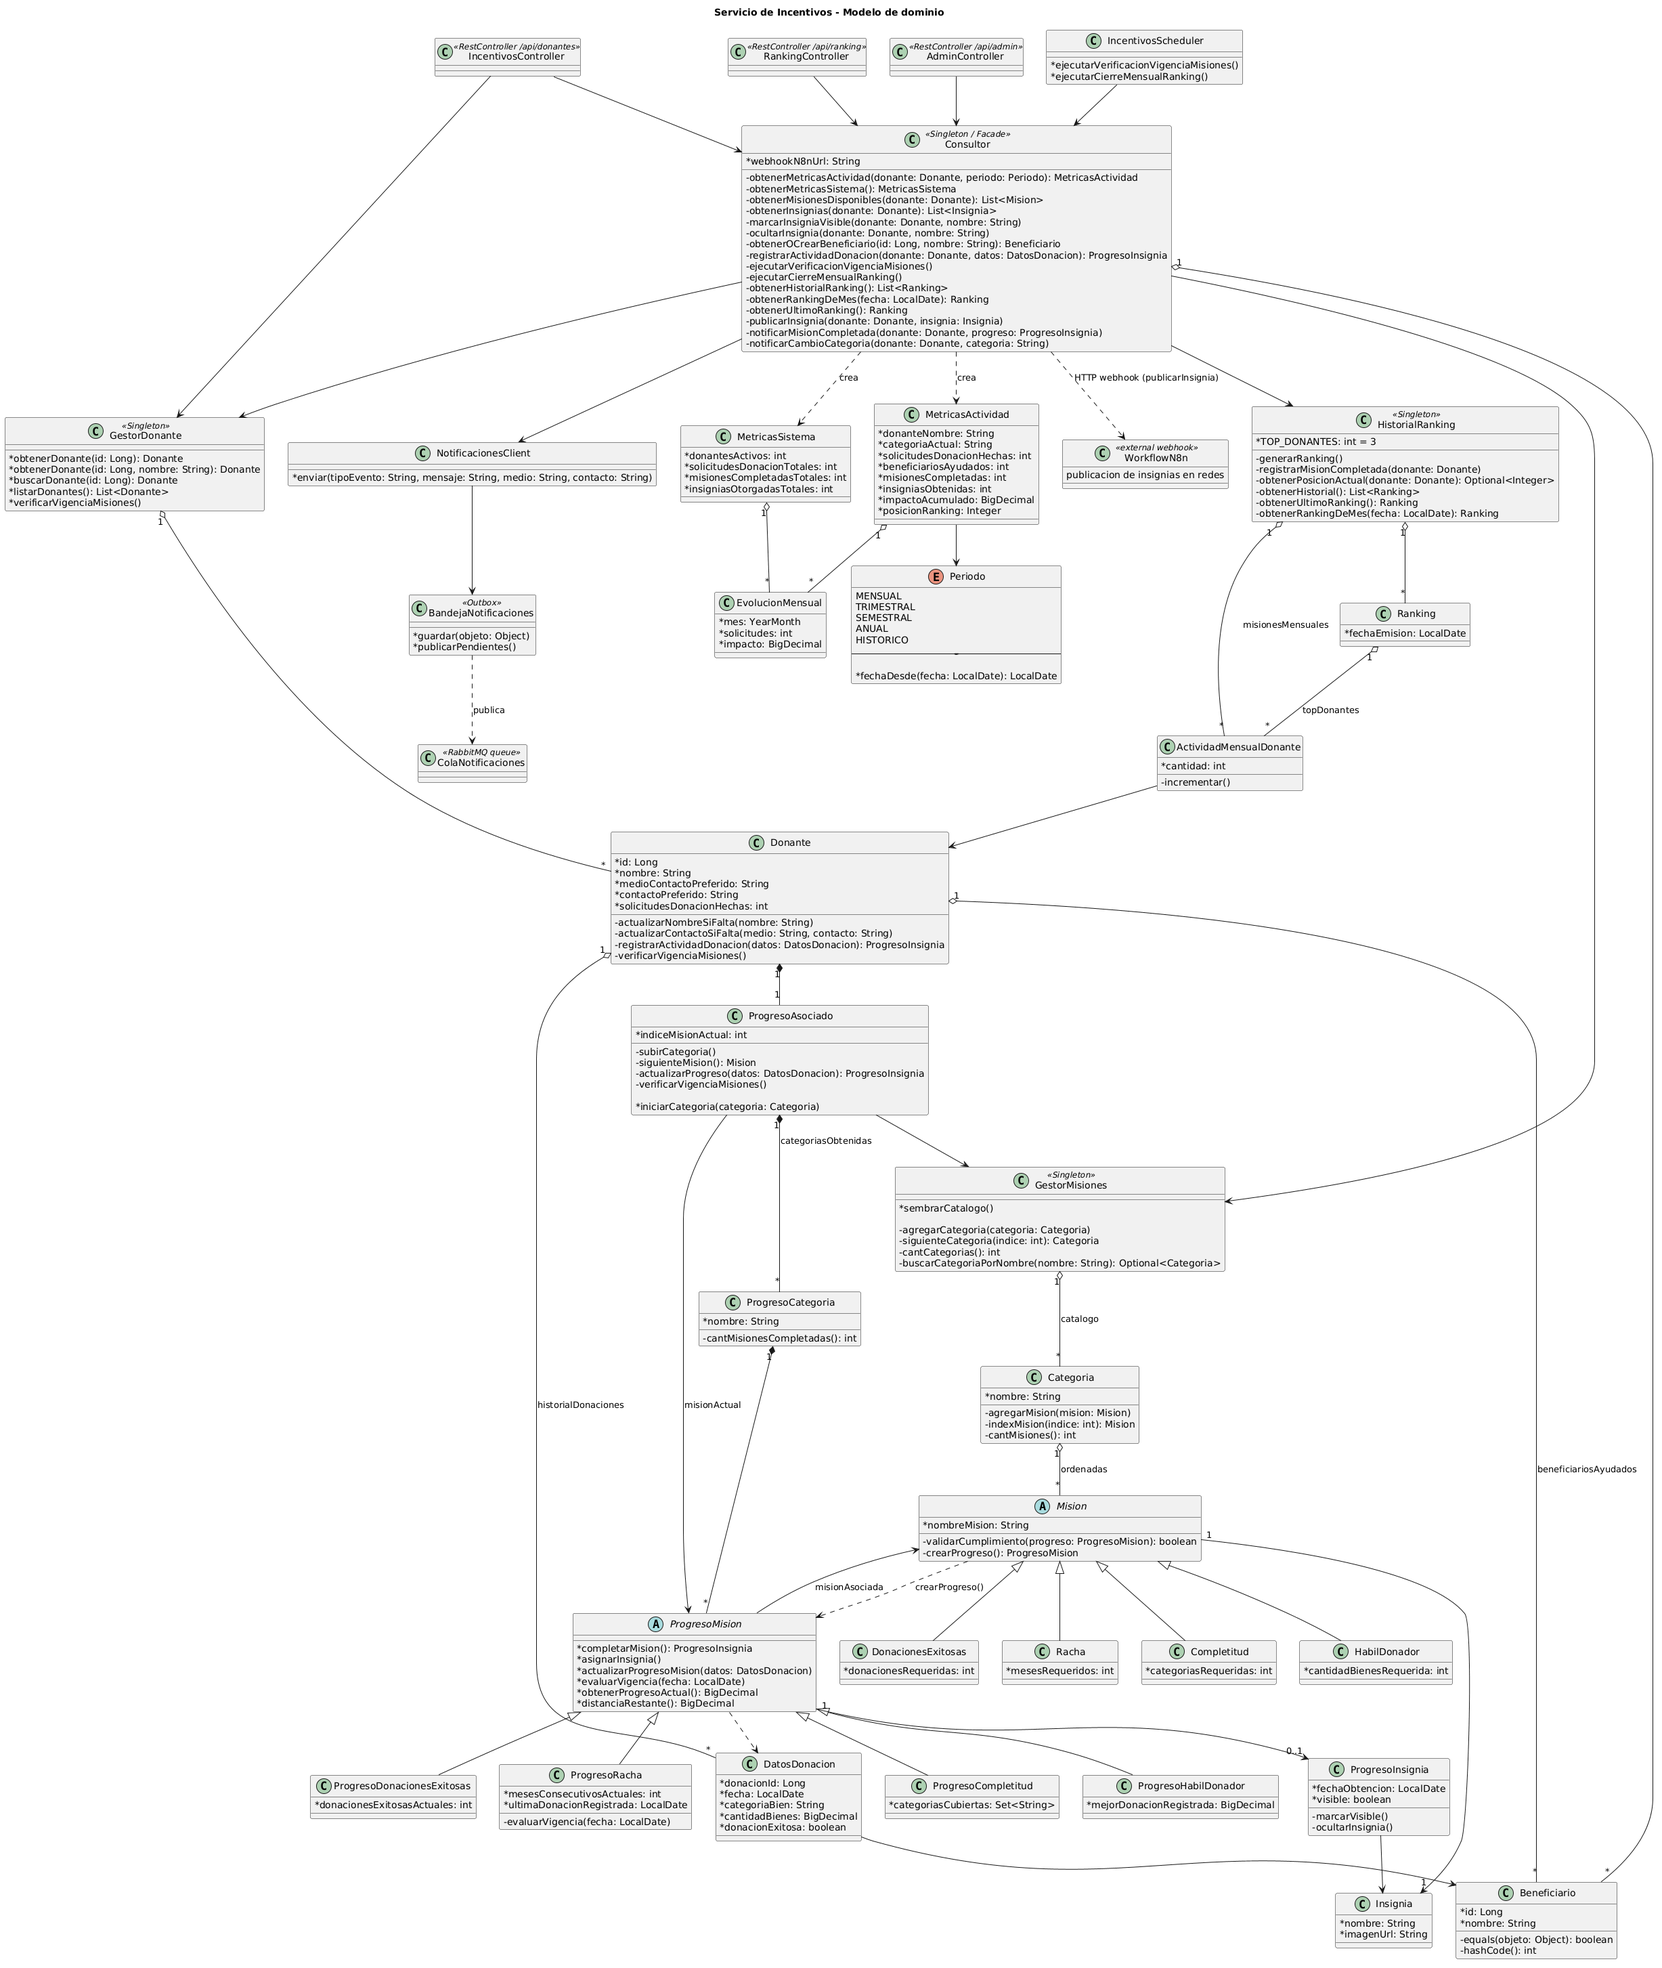
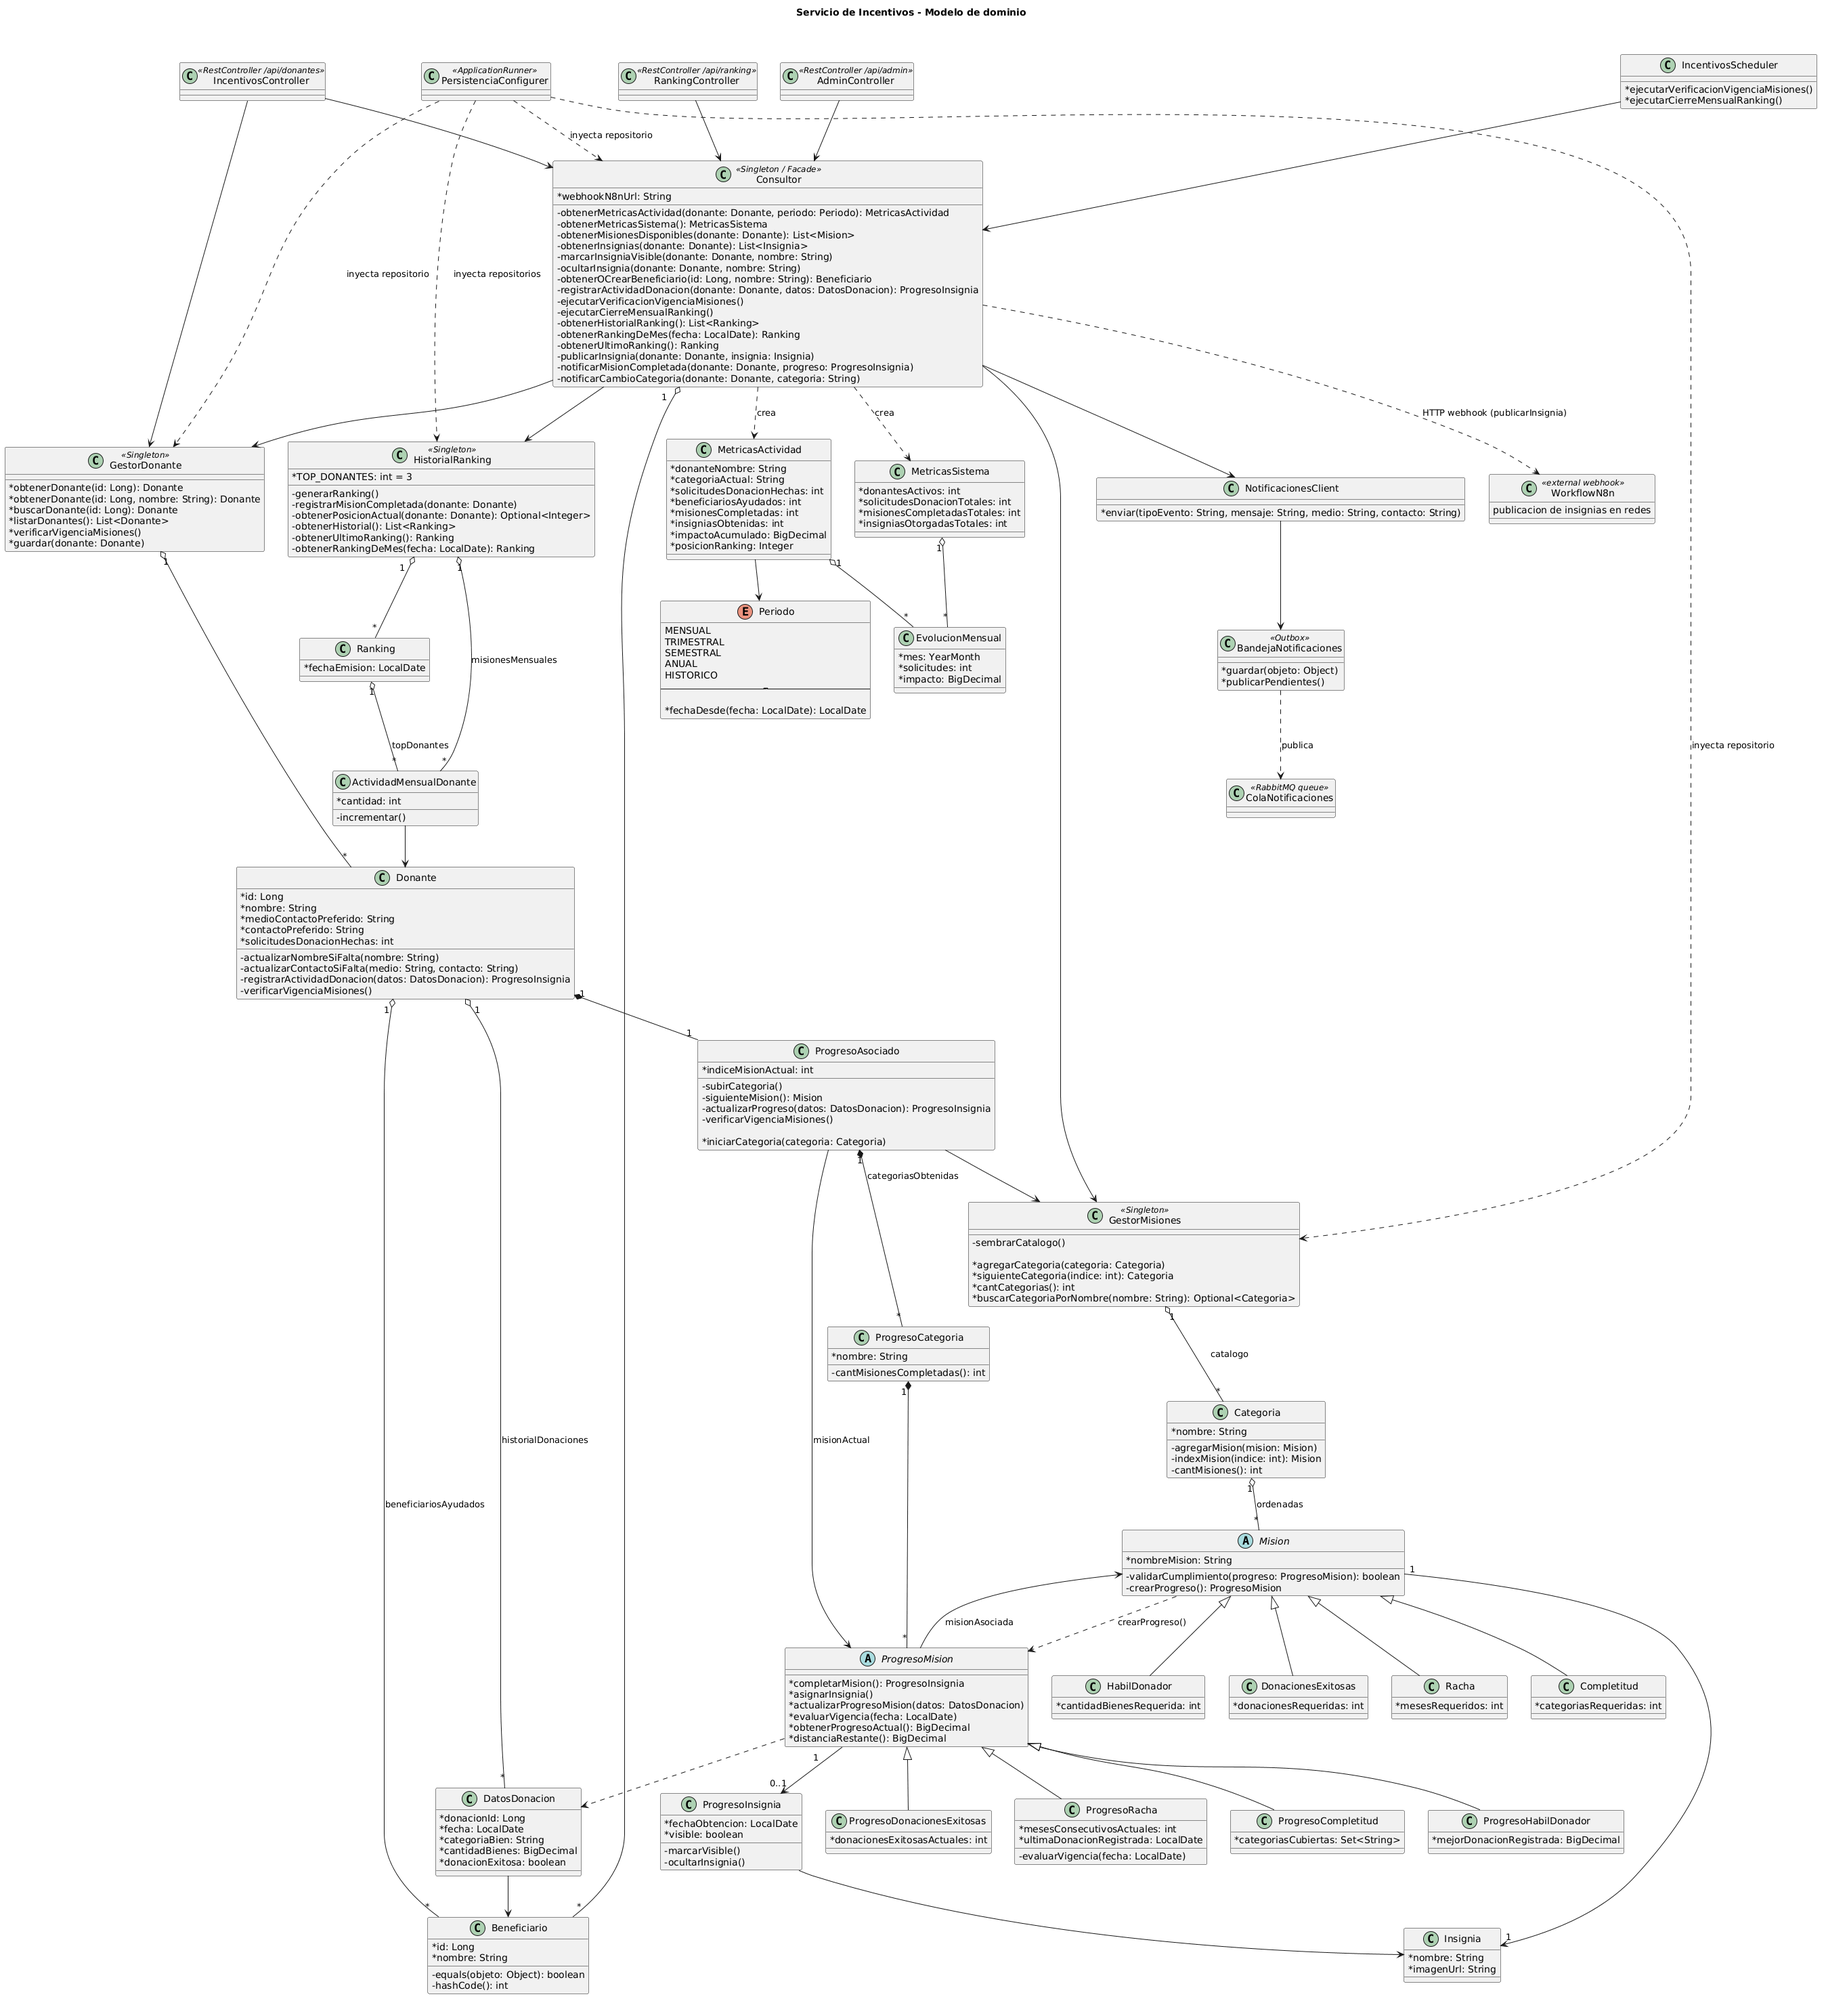
docs(incentivos): actualiza DDC con PersistenciaConfigurer y fixes de D-035 (D-036)
Parche puntual sobre incentivos.puml (ya estaba razonablemente al dia):
agrega GestorDonante.guardar() que faltaba desde D-028, agrega la clase
PersistenciaConfigurer con sus relaciones hacia los 4 managers (pieza
real de wiring ausente del diagrama), y corrige las visibilidades
invertidas de GestorMisiones (sembrarCatalogo privado, el resto
publico). Re-renderizado con plantuml/plantuml. Detalle en
decisiones.md D-036.

diff --git a/decisiones.md b/decisiones.md
@@ -431,6 +431,17 @@
 - **Validado:** suite completa en verde tras el fix -- 87 (Donaciones) + 20 (Logística) + 16 (Incentivos) + 3 (Notificaciones, 1 skip esperado).
 - **Definida por:** usuario (pidió el análisis de persistencia que encontró el hueco, y confirmó arreglar ambos) + agente (encontró los 2 huecos comparando cada camino de escritura contra el patrón ya usado correctamente en `HistorialRanking.registrarMisionCompletada()`, implementó el fix mínimo necesario sin tocar el resto del diseño)
 
+## [D-036] Actualización puntual del DDC de Incentivos (`diagramas/ddc/incentivos.puml`)
+- **Fecha:** 2026-10-29
+- **Servicio(s) afectado(s):** Incentivos (documentación)
+- **Contexto:** el `.puml` de Incentivos ya estaba razonablemente al día (probablemente de la limpieza de D-022), pero comparado clase por clase contra el código real quedaron 3 diferencias, dos de ellas relacionadas con el trabajo de persistencia de D-035.
+- **Decisión tomada** (parche puntual, no regeneración completa, según `donatrack-system-modeling`):
+  1. Se agregó `GestorDonante.guardar(donante: Donante)` -- existía en el código desde D-028 pero nunca se reflejó en el diagrama, y es justo el método que D-035 llama en los puntos que antes no persistían.
+  2. Se agregó la clase `PersistenciaConfigurer <<ApplicationRunner>>` con relaciones `..>` hacia `GestorMisiones`, `GestorDonante`, `HistorialRanking` y `Consultor` ("inyecta repositorio") -- es la pieza real que conecta los 4 managers manuales con sus repositorios al bootear, ausente del diagrama hasta ahora. Se la dejó sin método propio, igual que `IncentivosScheduler`, consistente con que `configurarPersistencia(...)` ya estaba omitido en los otros 3 managers por ser wiring de infraestructura, no comportamiento de dominio.
+  3. Se corrigieron las visibilidades invertidas de `GestorMisiones`: `sembrarCatalogo()` es privado en el código real (el diagrama lo marcaba público) y `agregarCategoria`/`siguienteCategoria`/`cantCategorias`/`buscarCategoriaPorNombre` son públicos (el diagrama los marcaba privados) -- error preexistente, no introducido hoy.
+- **Validado:** re-renderizado con la imagen Docker `plantuml/plantuml` (mismo mecanismo que D-031), revisado visualmente.
+- **Definida por:** usuario (pidió actualizar el DDC tras el escaneo de persistencia) + agente (comparó clase por clase contra el código real antes de tocar el archivo, limitó el cambio a las diferencias encontradas)
+
 ## [D-026] docker-compose único en la base del proyecto (RabbitMQ + MySQL + n8n)
 - **Fecha:** 2026-10-09
 - **Servicio(s) afectado(s):** infraestructura (Logística, Incentivos), scripts de arranque
